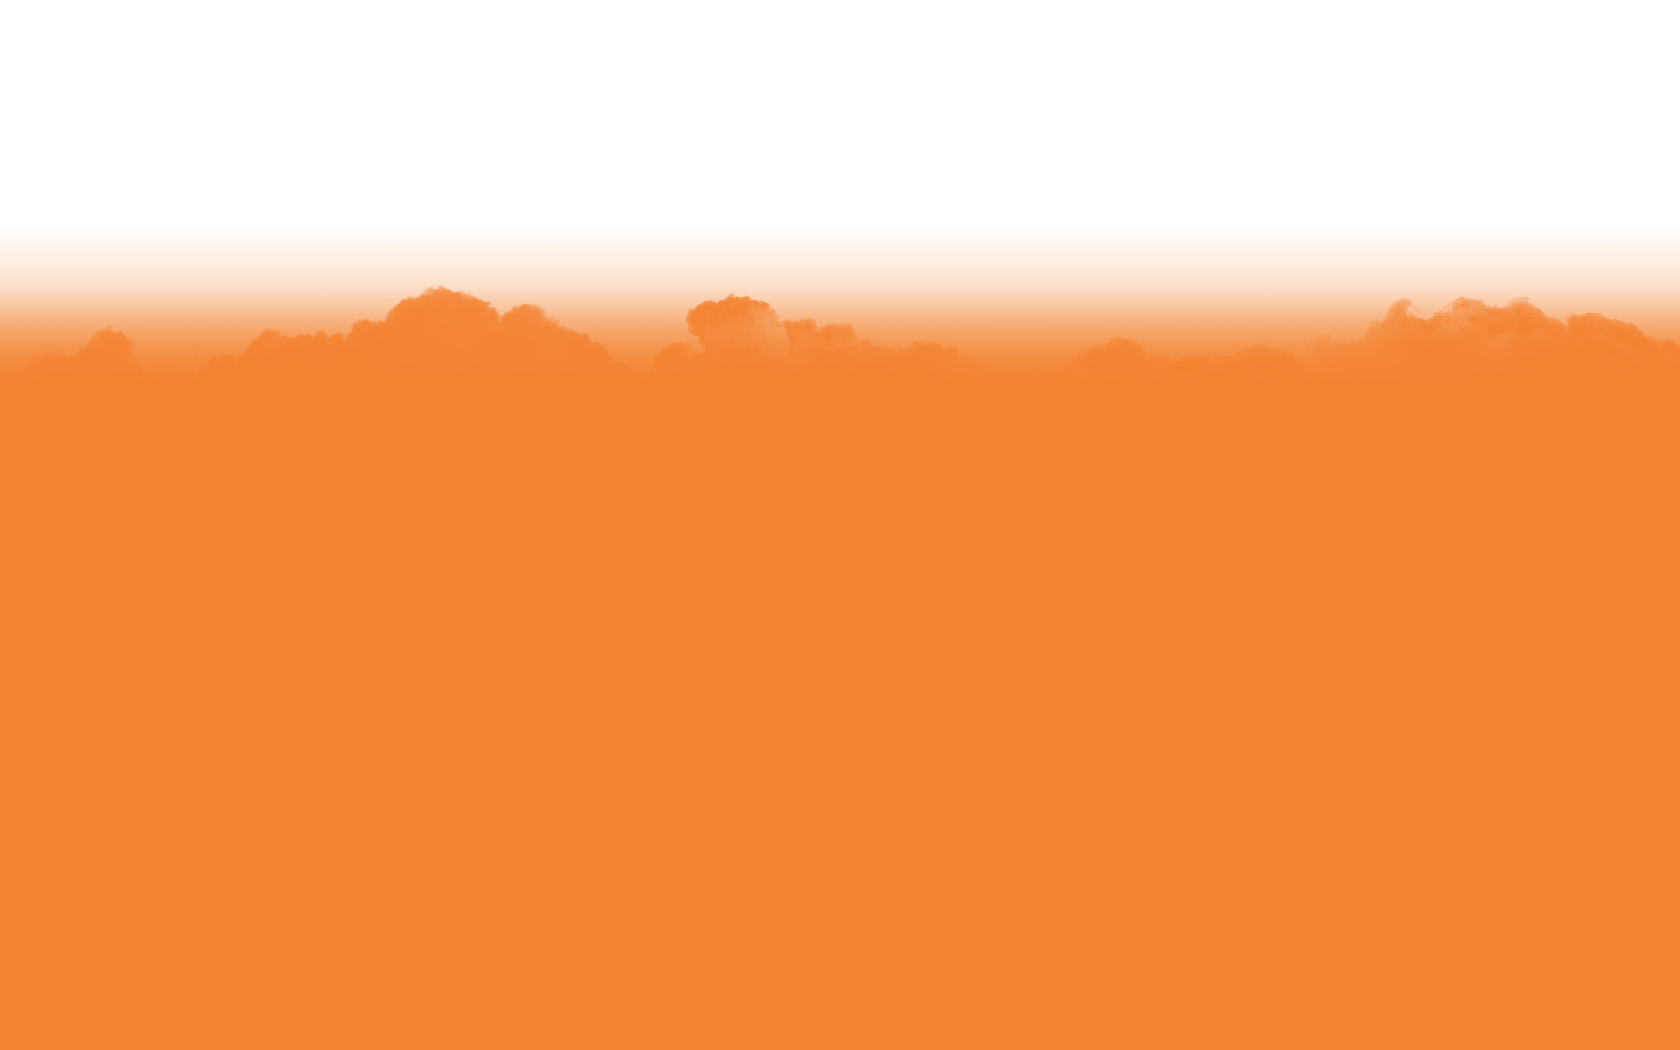
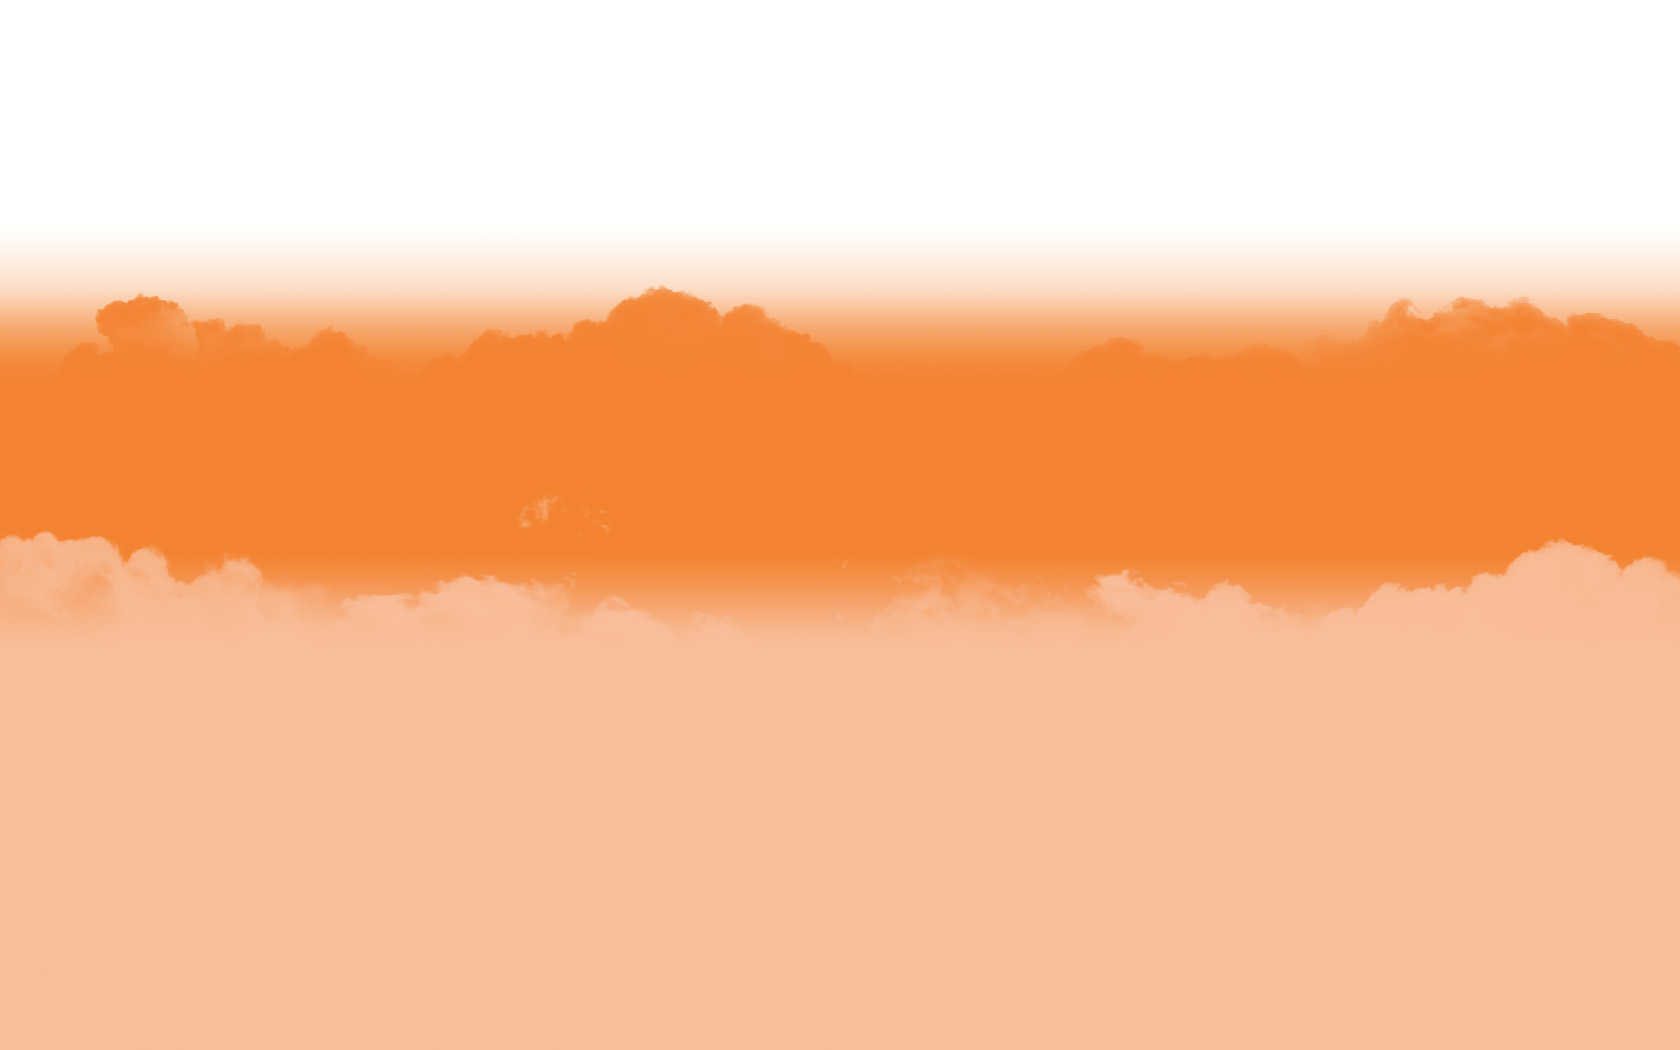
Added cool graphics

diff --git a/app/assets/javascripts/smoothscroll.js b/app/assets/javascripts/smoothscroll.js
@@ -1,0 +1,33 @@
+/**
+ * SmoothScroll
+ * This helper script created by DWUser.com.  Copyright 2012 DWUser.com.  
+ * Dual-licensed under the GPL and MIT licenses.  
+ * All individual scripts remain property of their copyrighters.
+ * Date: 10-Sep-2012
+ * Version: 1.0.1
+ */
+if (!window['jQuery']) alert('The jQuery library must be included before the smoothscroll.js file.  The plugin will not work propery.');
+
+/**
+ * jQuery.ScrollTo - Easy element scrolling using jQuery.
+ * Copyright (c) 2007-2012 Ariel Flesler - aflesler(at)gmail(dot)com | http://flesler.blogspot.com
+ * Dual licensed under MIT and GPL.
+ * @author Ariel Flesler
+ * @version 1.4.3.1
+ */
+;(function($){var h=$.scrollTo=function(a,b,c){$(window).scrollTo(a,b,c)};h.defaults={axis:'xy',duration:parseFloat($.fn.jquery)>=1.3?0:1,limit:true};h.window=function(a){return $(window)._scrollable()};$.fn._scrollable=function(){return this.map(function(){var a=this,isWin=!a.nodeName||$.inArray(a.nodeName.toLowerCase(),['iframe','#document','html','body'])!=-1;if(!isWin)return a;var b=(a.contentWindow||a).document||a.ownerDocument||a;return/webkit/i.test(navigator.userAgent)||b.compatMode=='BackCompat'?b.body:b.documentElement})};$.fn.scrollTo=function(e,f,g){if(typeof f=='object'){g=f;f=0}if(typeof g=='function')g={onAfter:g};if(e=='max')e=9e9;g=$.extend({},h.defaults,g);f=f||g.duration;g.queue=g.queue&&g.axis.length>1;if(g.queue)f/=2;g.offset=both(g.offset);g.over=both(g.over);return this._scrollable().each(function(){if(e==null)return;var d=this,$elem=$(d),targ=e,toff,attr={},win=$elem.is('html,body');switch(typeof targ){case'number':case'string':if(/^([+-]=)?\d+(\.\d+)?(px|%)?$/.test(targ)){targ=both(targ);break}targ=$(targ,this);if(!targ.length)return;case'object':if(targ.is||targ.style)toff=(targ=$(targ)).offset()}$.each(g.axis.split(''),function(i,a){var b=a=='x'?'Left':'Top',pos=b.toLowerCase(),key='scroll'+b,old=d[key],max=h.max(d,a);if(toff){attr[key]=toff[pos]+(win?0:old-$elem.offset()[pos]);if(g.margin){attr[key]-=parseInt(targ.css('margin'+b))||0;attr[key]-=parseInt(targ.css('border'+b+'Width'))||0}attr[key]+=g.offset[pos]||0;if(g.over[pos])attr[key]+=targ[a=='x'?'width':'height']()*g.over[pos]}else{var c=targ[pos];attr[key]=c.slice&&c.slice(-1)=='%'?parseFloat(c)/100*max:c}if(g.limit&&/^\d+$/.test(attr[key]))attr[key]=attr[key]<=0?0:Math.min(attr[key],max);if(!i&&g.queue){if(old!=attr[key])animate(g.onAfterFirst);delete attr[key]}});animate(g.onAfter);function animate(a){$elem.animate(attr,f,g.easing,a&&function(){a.call(this,e,g)})}}).end()};h.max=function(a,b){var c=b=='x'?'Width':'Height',scroll='scroll'+c;if(!$(a).is('html,body'))return a[scroll]-$(a)[c.toLowerCase()]();var d='client'+c,html=a.ownerDocument.documentElement,body=a.ownerDocument.body;return Math.max(html[scroll],body[scroll])-Math.min(html[d],body[d])};function both(a){return typeof a=='object'?a:{top:a,left:a}}})(jQuery);
+
+/**
+ * jQuery.LocalScroll
+ * Copyright (c) 2007-2010 Ariel Flesler - aflesler(at)gmail(dot)com | http://flesler.blogspot.com
+ * Dual licensed under MIT and GPL.
+ * Date: 05/31/2010
+ * @author Ariel Flesler
+ * @version 1.2.8b
+ **/
+;(function(b){function g(a,e,d){var h=e.hash.slice(1),f=document.getElementById(h)||document.getElementsByName(h)[0];if(f){a&&a.preventDefault();var c=b(d.target);if(!(d.lock&&c.is(":animated")||d.onBefore&&!1===d.onBefore(a,f,c))){d.stop&&c._scrollable().stop(!0);if(d.hash){var a=f.id==h?"id":"name",g=b("<a> </a>").attr(a,h).css({position:"absolute",top:b(window).scrollTop(),left:b(window).scrollLeft()});f[a]="";b("body").prepend(g);location=e.hash;g.remove();f[a]=h}c.scrollTo(f,d).trigger("notify.serialScroll",
+[f])}}}var i=location.href.replace(/#.*/,""),c=b.localScroll=function(a){b("body").localScroll(a)};c.defaults={duration:1E3,axis:"y",event:"click",stop:!0,target:window,reset:!0};c.hash=function(a){if(location.hash){a=b.extend({},c.defaults,a);a.hash=!1;if(a.reset){var e=a.duration;delete a.duration;b(a.target).scrollTo(0,a);a.duration=e}g(0,location,a)}};b.fn.localScroll=function(a){function e(){return!!this.href&&!!this.hash&&this.href.replace(this.hash,"")==i&&(!a.filter||b(this).is(a.filter))}
+a=b.extend({},c.defaults,a);return a.lazy?this.bind(a.event,function(d){var c=b([d.target,d.target.parentNode]).filter(e)[0];c&&g(d,c,a)}):this.find("a,area").filter(e).bind(a.event,function(b){g(b,this,a)}).end().end()}})(jQuery);
+
+// Initialize all .smoothScroll links
+jQuery(function($){ $.localScroll({filter:'.smoothScroll'}); });

diff --git a/app/assets/stylesheets/custom.css.scss b/app/assets/stylesheets/custom.css.scss
@@ -15,9 +15,12 @@ html {
 
 .body_signed {
   padding-top: 60px;
-  background-image: url('Concept2.jpg');
-  background-repeat: no-repeat;
-  background-position: left top;
+  background:#f8bd9a url('Concept2.jpg') no-repeat left top;
+}
+
+.navbar-inner {
+  padding-top: -500px;
+  margin-top: -60px;
 }
 
 section {
@@ -40,6 +43,17 @@ textarea {
   margin: 0 100px 100px 200px;
 }
 
+.ThisIsWhere {
+  margin: 0 100px 100px 150px;
+}
+
+.MakeAConnect {
+  margin: 100px 350px 70px 250px;
+}
+
+.feeds {
+  margin: 0 100px 100px 150px;
+}
 /* typography */
 
 h1, h2, h3, h4, h5, h6 {
@@ -277,5 +291,14 @@ aside {
 
 .errors {
   color: #ff0000;
+}
+
+.feed_item {
+  background-color:#e2d4d0;
+  -moz-box-shadow: 5px 5px 5px #333333;; /* Old Firefox */
+  box-shadow: 5px 5px 5px #333333;
+  border:1px solid;
+  border-radius:10px;
+  -moz-border-radius:10px; /* Old Firefox */
 }
 
